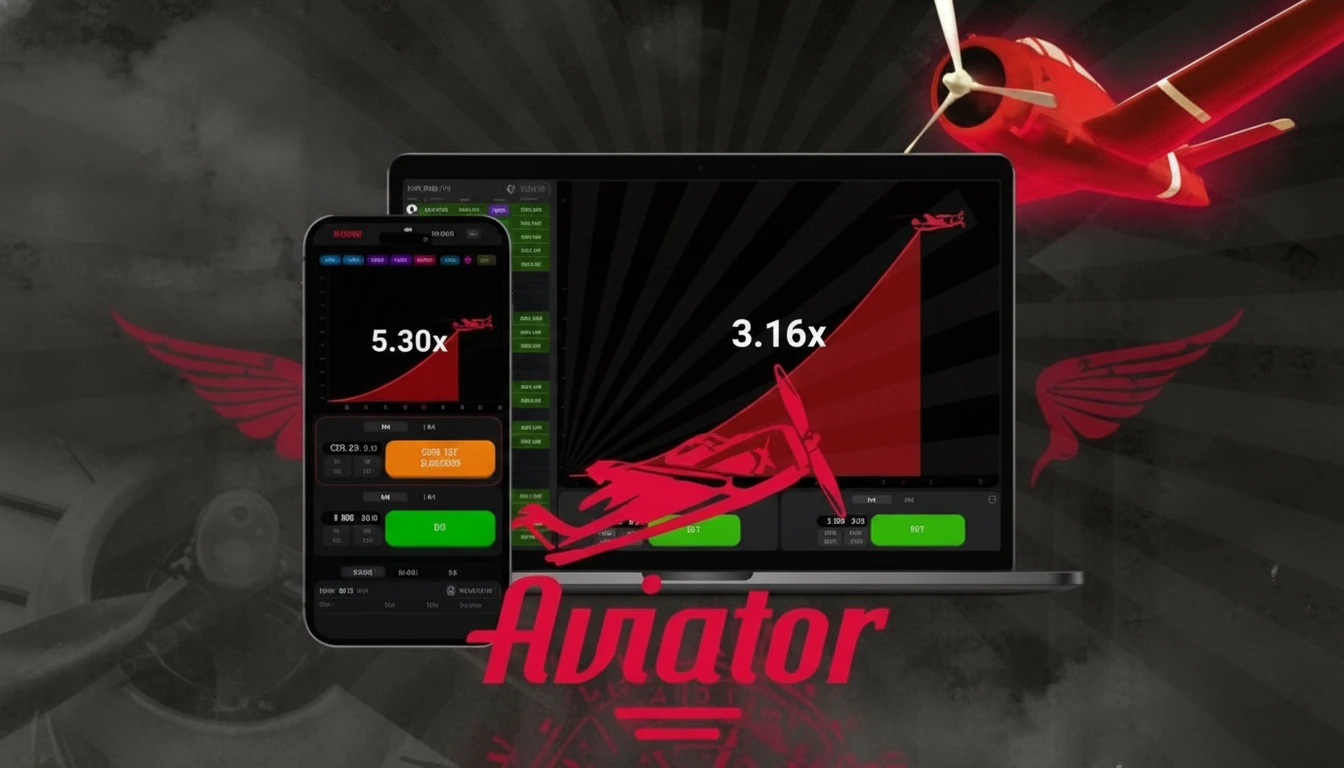
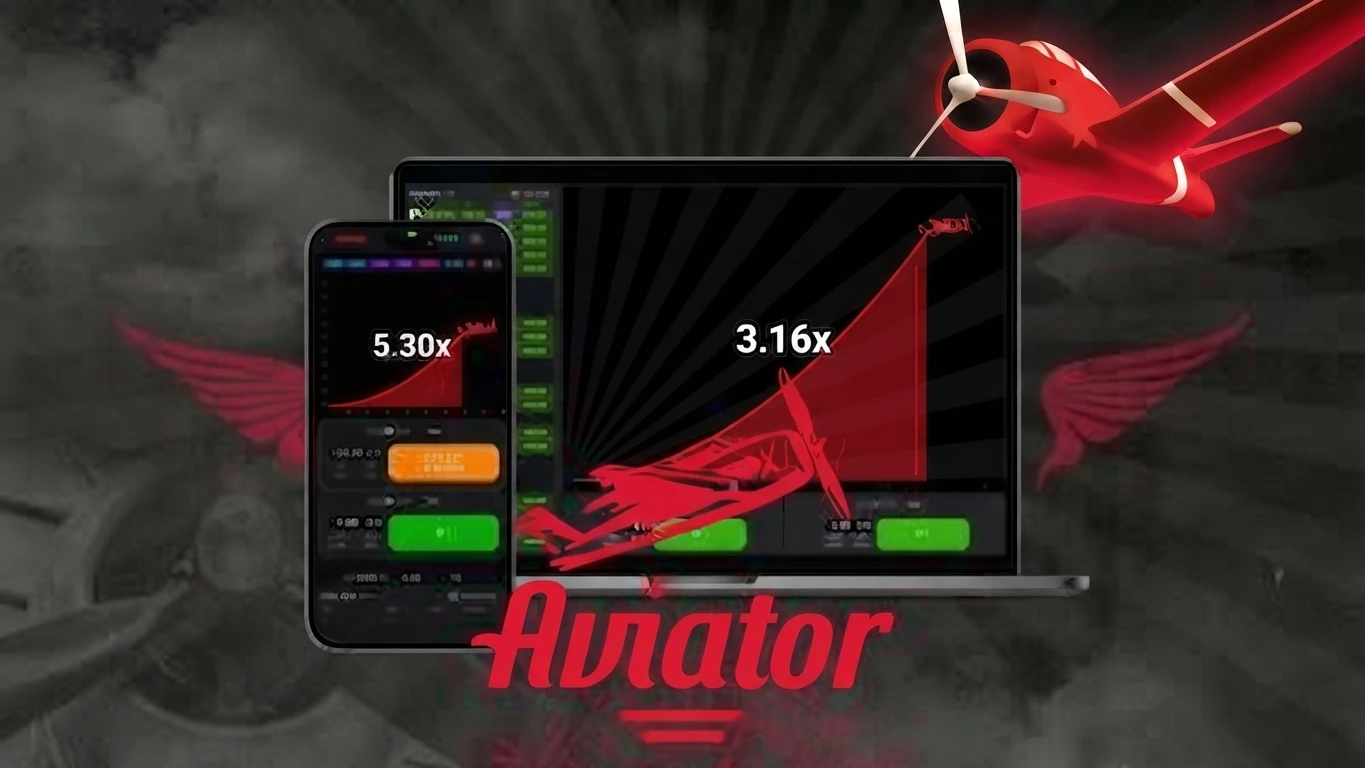
Use the supplied hero render
Swapped in the user's own 1365x768 render in place of mine. No resize and no
sharpening pass: it already arrives at the resolution the hero needs — 768
CSS px at 2x DPR wants 1536, so 1365 leaves a negligible 1.12x stretch, and
sharpening a clean render only adds halos.

Recompressed 482KB to 104KB at JPEG q86. width/height follow the 16:9 aspect
(1.777, against 1.75 before), and assets/ keeps the uncompressed master.

diff --git a/frontend/app/welcome/page.tsx b/frontend/app/welcome/page.tsx
@@ -409,7 +409,7 @@ export default function WelcomePage() {
             <Image
               src="/lp-hero.jpeg"
               alt="The game running side by side on a phone at 5.30x and a laptop at 3.16x"
-              width={1344}
+              width={1365}
               height={768}
               preload
               sizes="(min-width: 1600px) 48rem, (min-width: 704px) 42rem, 100vw"
